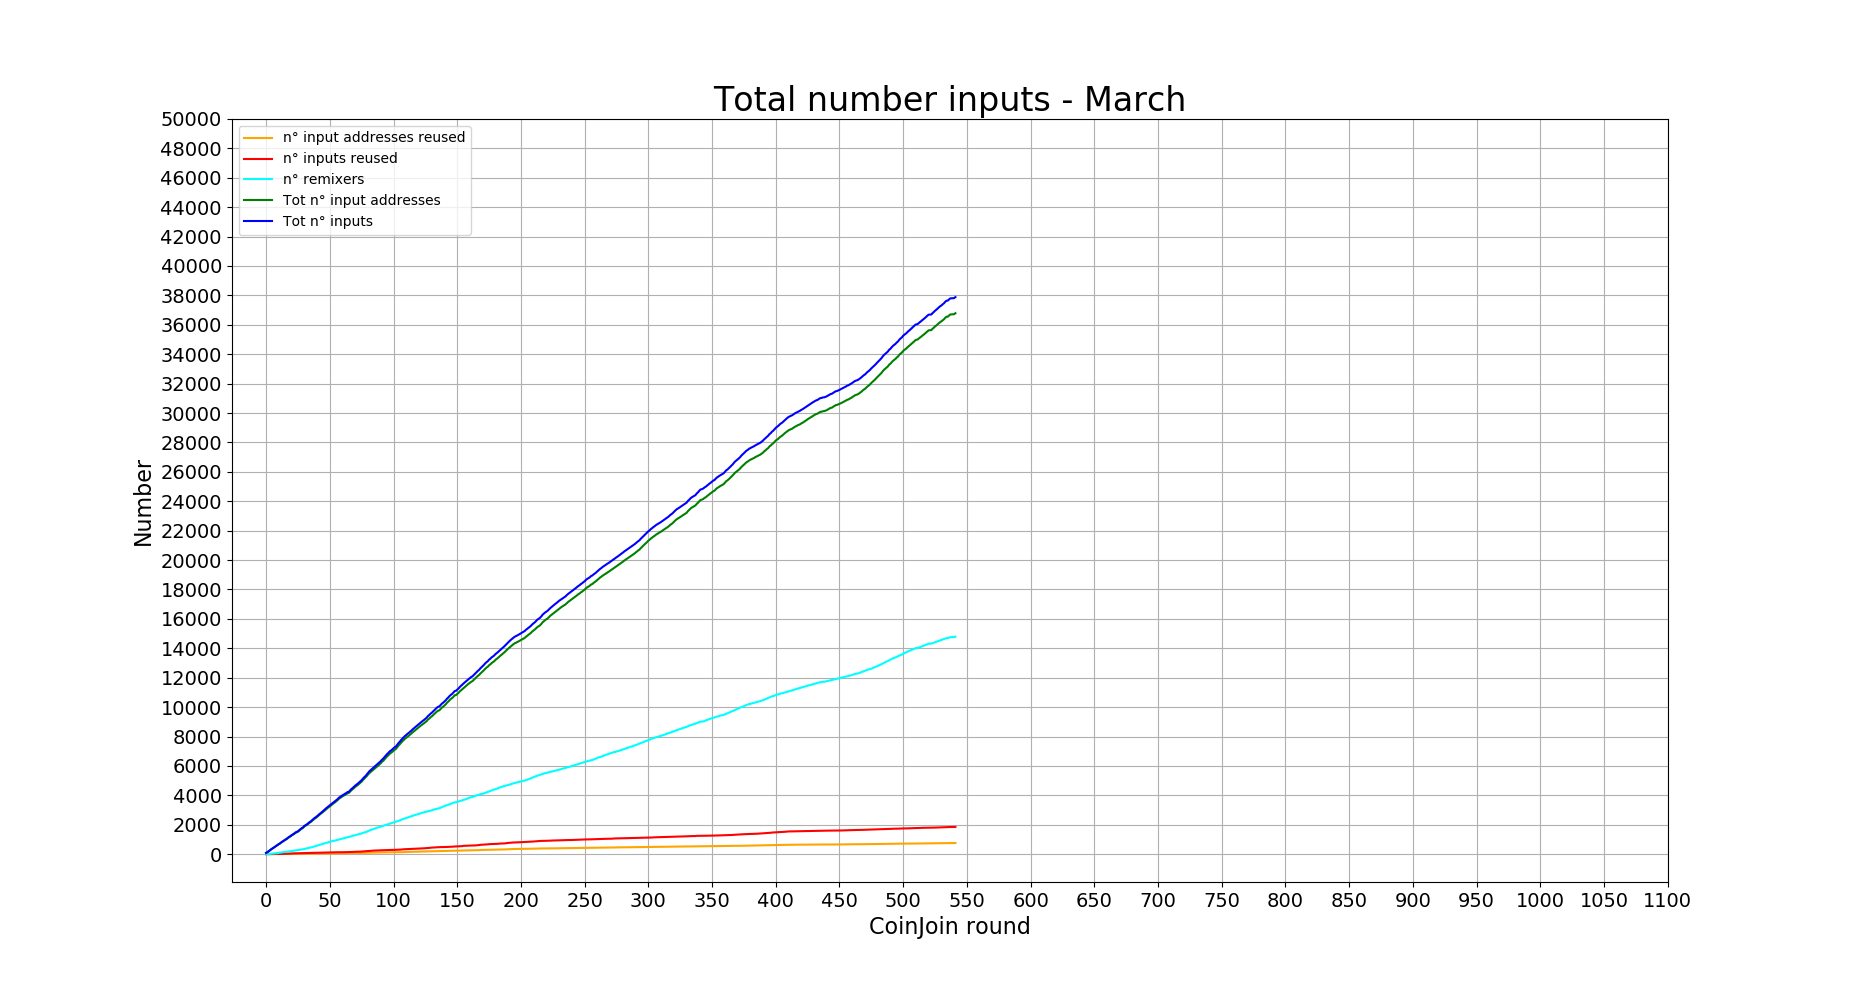
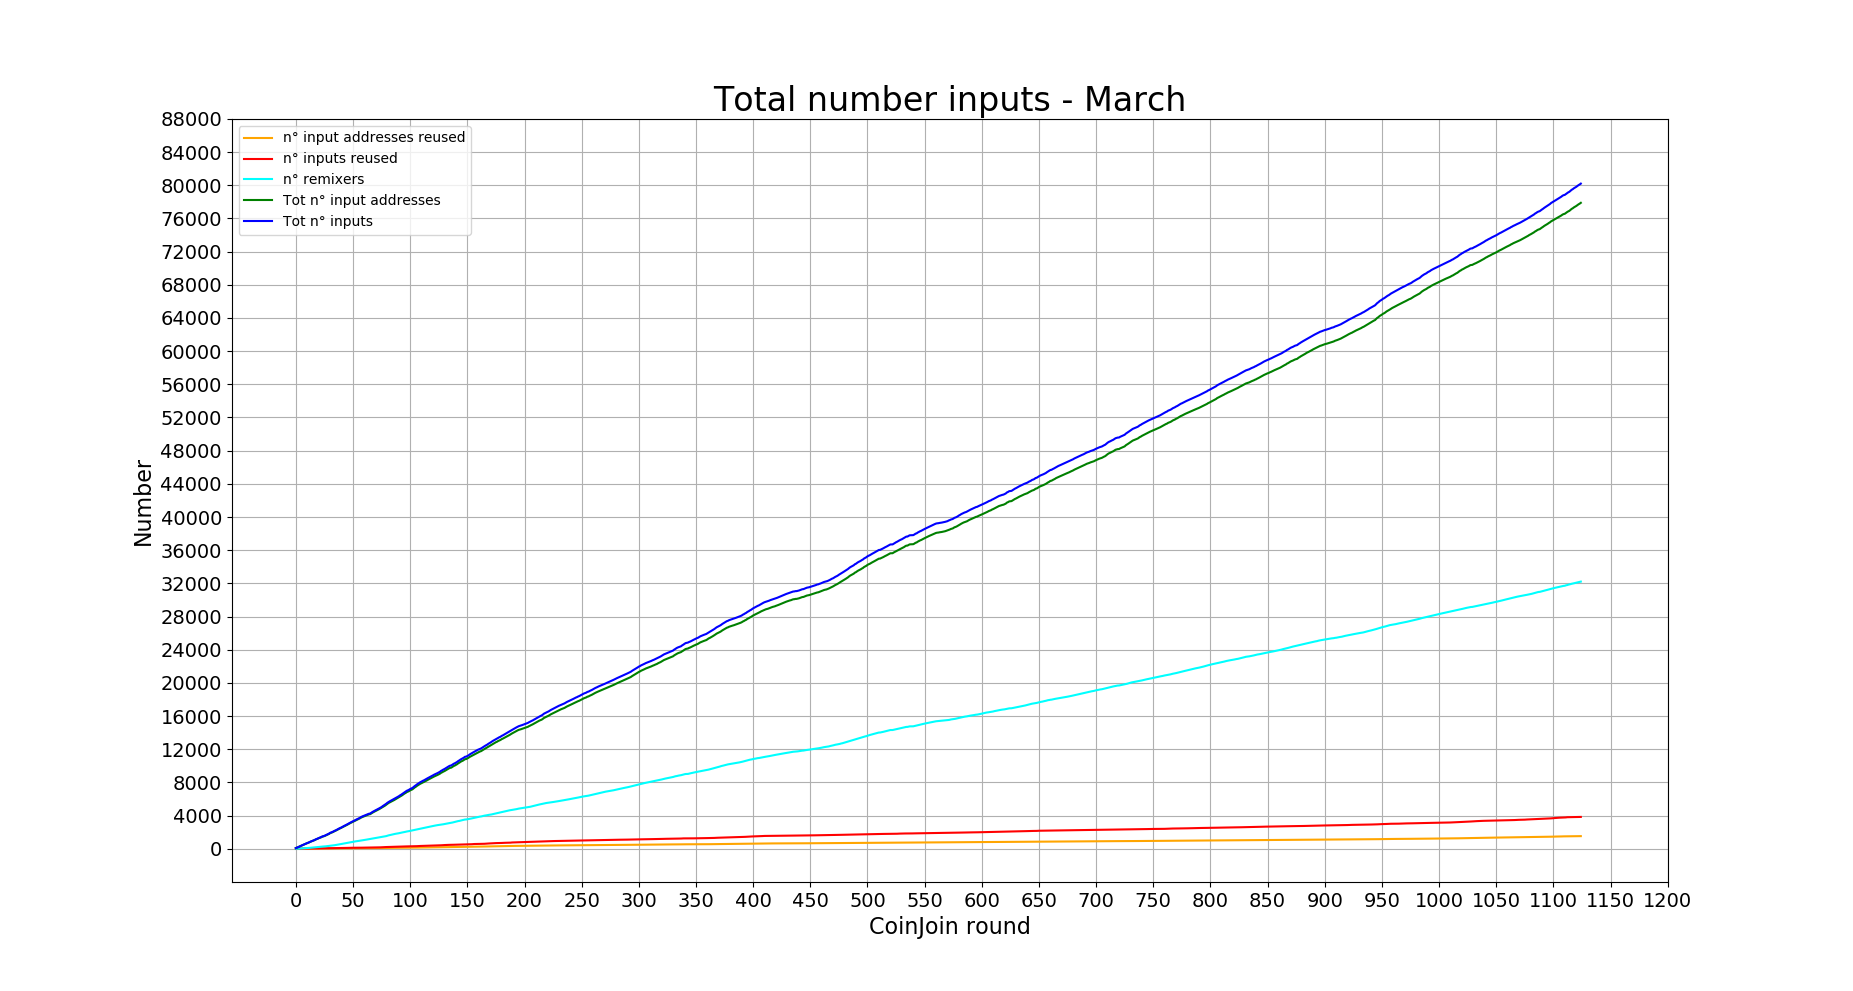
March update (#6)
Update complete March

Changed region(s): [[0.123, 0.1816, 0.8921, 0.9384], [0.0923, 0.0908, 0.123, 0.8476], [0.4307, 0.5752, 0.8613, 0.7568]]

diff --git a/README.md b/README.md
@@ -22,8 +22,8 @@ For stats about the previous months, look [here](months_list.md).
 
 ---
 
-## March (ongoing)
-**542 CoinJoin round**
+## March
+**1125 CoinJoin round**
 
 ---
 
@@ -34,29 +34,29 @@ For stats about the previous months, look [here](months_list.md).
 
 **Last values:**
 
-* Blue line = 36
+* Blue line = 36.3
 
 #### [Partecipants per CoinJoin](Dont_Trust_Verify.md#partecipants-per-coinjoin)
 ![partecipants_per_CoinJoin](2020/March/partecipants_per_CoinJoin.png)
 
 **Last values:**
 
-* Blue line = 54.5
+* Blue line = 55.6
 
 #### [Average input size per CoinJoin](Dont_Trust_Verify.md#average-input-size-per-coinjoin)
 ![average_input_size_per_CoinJoin](2020/March/average_input_size_per_CoinJoin.png)
 
 **Last values:**
 
-* Blue line = 0.45
+* Blue line = 0.54
 
 #### [Total volume](Dont_Trust_Verify.md#total-volume)
 ![total_volume](2020/March/total_volume.png)
 
 **Last values:**
 
-* Green line = 17281
-* Blue line = 8174
+* Green line = 45532
+* Blue line = 17503
 
 ### INPUTS
 
@@ -65,42 +65,42 @@ For stats about the previous months, look [here](months_list.md).
 
 **Last values:**
 
-* Orange line = 755
-* Red line = 1852
-* Light blue line = 14791
-* Green line = 36788
-* Blue line = 37885
+* Orange line = 1519
+* Red line = 3835
+* Light blue line = 32211
+* Green line = 77883
+* Blue line = 80199
 
 #### [Percentage remixers per CoinJoin](Dont_Trust_Verify.md#percentage-remixers-per-coinjoin)
 ![percentage_remixers_per_CoinJoin](2020/March/percentage_remixers_per_CoinJoin.png)
 
 **Last values:**
 
-* Blue line = 40.14
+* Blue line = 41.5
 
 #### [Total percentage remixers](Dont_Trust_Verify.md#total-percentage-remixers)
 ![total_percentage_remixers](2020/March/total_percentage_remixers.png)
 
 **Last values:**
 
-* Green line = 40.2
-* Blue line = 39.04
+* Green line = 41.3
+* Blue line = 40.1
 
 #### [Percentage address reuse per CoinJoin](Dont_Trust_Verify.md#percentage-address-reuse-per-coinjoin)
 ![percentage_address_reuse_per_CoinJoin](2020/March/percentage_address_reuse_per_CoinJoin.png)
 
 **Last values:**
 
-* Orange line = 2.67
-* Red line = 2.99
+* Orange line = 2.65
+* Red line = 2.96
 
 #### [Total percentage address reuse](Dont_Trust_Verify.md#total-percentage-address-reuse)
 ![total_percentage_address_reuse](2020/March/total_percentage_address_reuse.png)
 
 **Last values:**
 
-* Orange line = 2
-* Red line = 4.9
+* Orange line = 1.95
+* Red line = 4.8
 
 ### EQUAL OUTPUTS
 
@@ -109,17 +109,17 @@ For stats about the previous months, look [here](months_list.md).
 
 **Last values:**
 
-* Orange line = 927
-* Red line = 2392
-* Green line = 39710
-* Blue line = 41175
+* Orange line = 1969
+* Red line = 4870
+* Green line = 85742
+* Blue line = 88643
 
 #### [Percentage equal outputs reused per CoinJoin](Dont_Trust_Verify.md#percentage-equal-outputs-reused-per-coinjoin)
 ![percentage_equal_outputs_reused_per_CoinJoin](2020/March/percentage_equal_outputs_reused_per_CoinJoin.png)
 
 **Last values:**
 
-* Red line = 3.3
+* Red line = 3.1
 
 #### [Total percentage outputs reused](Dont_Trust_Verify.md#total-percentage-equal-outputs-reused)
 ![total_percentage_output_reused](2020/March/total_percentage_outputs_reused.png)
@@ -127,7 +127,7 @@ For stats about the previous months, look [here](months_list.md).
 **Last values:**
 
 * Orange line = 2.3
-* Red line = 5.8
+* Red line = 5.5
 
 ---
 
